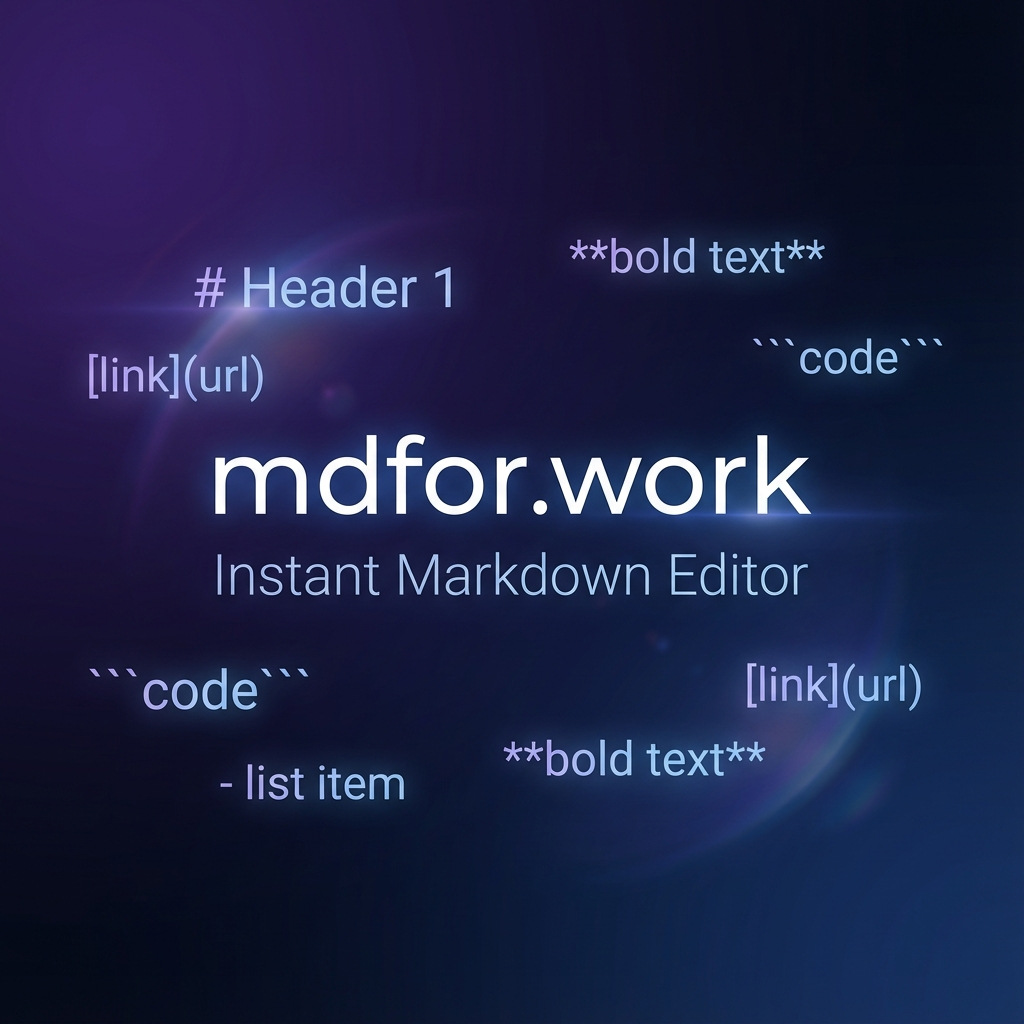
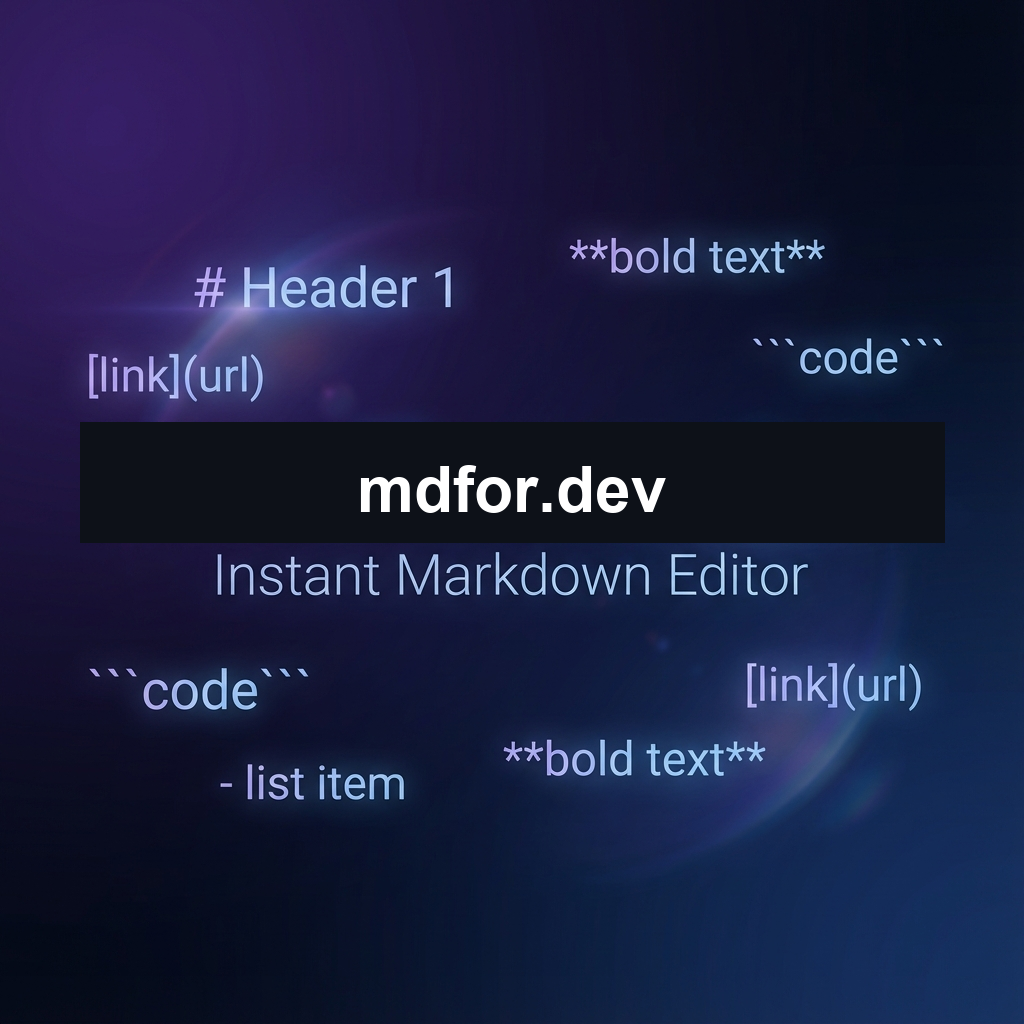
Rebrand production site from mdfor.work to mdfor.dev.
Update SEO, manifest, default content, and OG image so the GitHub Pages deploy matches the new primary domain.

Changed region(s): [[0.0625, 0.4062, 0.9375, 0.5312]]

diff --git a/index.html b/index.html
@@ -5,35 +5,35 @@
     <meta name="viewport" content="width=device-width, initial-scale=1.0" />
     <meta
       name="description"
-      content="mdfor.work — A fast, private markdown editor with instant live preview. Your content stays on your device and is never sent anywhere."
+      content="mdfor.dev — A fast, private markdown editor with instant live preview. Your content stays on your device and is never sent anywhere."
     />
     <meta
       name="keywords"
-      content="markdown, preview, editor, live, real-time, writing, documentation, mdfor.work"
+      content="markdown, preview, editor, live, real-time, writing, documentation, mdfor.dev"
     />
 
     <!-- Open Graph Meta Tags -->
-    <meta property="og:title" content="mdfor.work — Instant Markdown Editor" />
+    <meta property="og:title" content="mdfor.dev — Instant Markdown Editor" />
     <meta
       property="og:description"
       content="A fast, private markdown editor with instant live preview. Your content stays on your device and is never sent anywhere."
     />
     <meta property="og:type" content="website" />
-    <meta property="og:url" content="https://mdfor.work/" />
-    <link rel="canonical" href="https://mdfor.work/" />
-    <meta property="og:site_name" content="mdfor.work" />
-    <meta property="og:image" content="https://mdfor.work/og-image.png" />
+    <meta property="og:url" content="https://mdfor.dev/" />
+    <link rel="canonical" href="https://mdfor.dev/" />
+    <meta property="og:site_name" content="mdfor.dev" />
+    <meta property="og:image" content="https://mdfor.dev/og-image.png" />
 
     <!-- Twitter Card Meta Tags -->
     <meta name="twitter:card" content="summary_large_image" />
-    <meta name="twitter:title" content="mdfor.work — Instant Markdown Editor" />
+    <meta name="twitter:title" content="mdfor.dev — Instant Markdown Editor" />
     <meta
       name="twitter:description"
       content="A fast, private markdown editor with instant live preview. Your content stays on your device and is never sent anywhere."
     />
-    <meta name="twitter:image" content="https://mdfor.work/og-image.png" />
+    <meta name="twitter:image" content="https://mdfor.dev/og-image.png" />
 
-    <title>mdfor.work — Instant Markdown Editor</title>
+    <title>mdfor.dev — Instant Markdown Editor</title>
 
     <!-- Favicon -->
     <link rel="icon" type="image/png" href="/favicon-96x96.png" sizes="96x96" />
@@ -50,8 +50,8 @@
       {
         "@context": "https://schema.org",
         "@type": "WebApplication",
-        "name": "mdfor.work",
-        "url": "https://mdfor.work/",
+        "name": "mdfor.dev",
+        "url": "https://mdfor.dev/",
         "description": "A fast, private markdown editor with instant live preview. Content stays on your device and is never sent anywhere.",
         "applicationCategory": "Productivity",
         "operatingSystem": "All",
@@ -86,16 +86,26 @@
             <path d="M12 12v6" />
             <path d="M11 18h2" />
           </svg>
-          <h1 class="logo">mdfor.work</h1>
+          <h1 class="logo">mdfor.dev</h1>
         </div>
 
         <div class="header-controls" role="group" aria-label="Editor controls">
           <nav class="mobile-view-switcher" id="mobileViewSwitcher" aria-label="Toggle view">
-            <button class="view-tab active" data-view="editor" aria-pressed="true" data-tooltip="Editor">
+            <button
+              class="view-tab active"
+              data-view="editor"
+              aria-pressed="true"
+              data-tooltip="Editor"
+            >
               <i data-lucide="pencil" width="16" height="16" aria-hidden="true"></i>
               <span class="view-tab-label">Editor</span>
             </button>
-            <button class="view-tab" data-view="preview" aria-pressed="false" data-tooltip="Preview">
+            <button
+              class="view-tab"
+              data-view="preview"
+              aria-pressed="false"
+              data-tooltip="Preview"
+            >
               <i data-lucide="eye" width="16" height="16" aria-hidden="true"></i>
               <span class="view-tab-label">Preview</span>
             </button>

diff --git a/lib/constants.js b/lib/constants.js
@@ -48,7 +48,7 @@ body {
 }
 `.trim();
 
-export const DEFAULT_CONTENT = `# Welcome to mdfor.work ✨
+export const DEFAULT_CONTENT = `# Welcome to mdfor.dev ✨
 
 Start typing your **markdown** in the editor, and watch it transform into beautiful formatted text in the preview — *instantly*.
 
@@ -96,7 +96,7 @@ graph LR
 
 ### Images
 
-![Sample landscape](https://placehold.co/800x320/e7dfd0/6b6256?text=mdfor.work)
+![Sample landscape](https://placehold.co/800x320/e7dfd0/6b6256?text=mdfor.dev)
 
 ### Tables
 

diff --git a/README.md b/README.md
@@ -1,6 +1,8 @@
-## mdfor.work
+## mdfor.dev
 
 A fast, private, browser-only markdown editor with live preview. Built as a single-page app that runs entirely in the client.
+
+Production: [https://mdfor.dev](https://mdfor.dev) (deployed via Cloudflare Pages from GitHub). **mdfor.work** redirects to **mdfor.dev**.
 
 ### Features
 
@@ -43,13 +45,25 @@ npm run preview  # serves ./dist at http://localhost:3000
 
 ### Deployment
 
-Build static assets and serve the `dist/` folder from any static host (Cloudflare Pages, Netlify, S3, nginx, etc.):
+This repo deploys automatically to **Cloudflare Pages** (`md-preview` project) on pushes to `main`:
+
+- Build command: `npm run build`
+- Output directory: `dist`
+- Custom domain: **https://mdfor.dev**
+
+For other static hosts (Netlify, S3, nginx, etc.), build and serve `dist/`:
 
 ```bash
 npm run build
 ```
 
 Cache headers for hashed assets are defined in [`_headers`](_headers) for hosts that support it.
+
+**Cloudflare cutover (after merging rebrand):**
+
+1. **mdfor.dev** zone DNS: `www` CNAME → `md-preview-19t.pages.dev` (proxied) if `www.mdfor.dev` is on the Pages project.
+2. **mdfor.work** zone: Redirect Rule — hostname `mdfor.work` or `www.mdfor.work` → `https://mdfor.dev` (301, preserve path and query).
+3. Pages **Custom domains**: remove `mdfor.work` (and `www.mdfor.work` if present) so the zone redirect applies.
 
 ### Tech Stack
 
